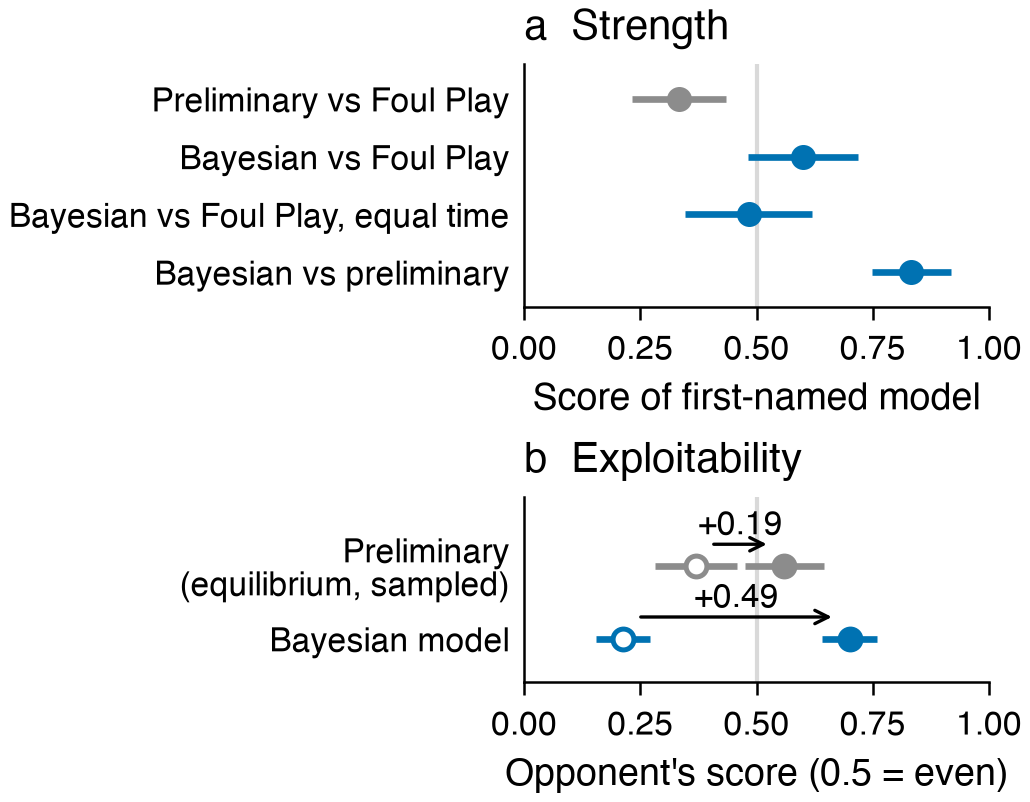
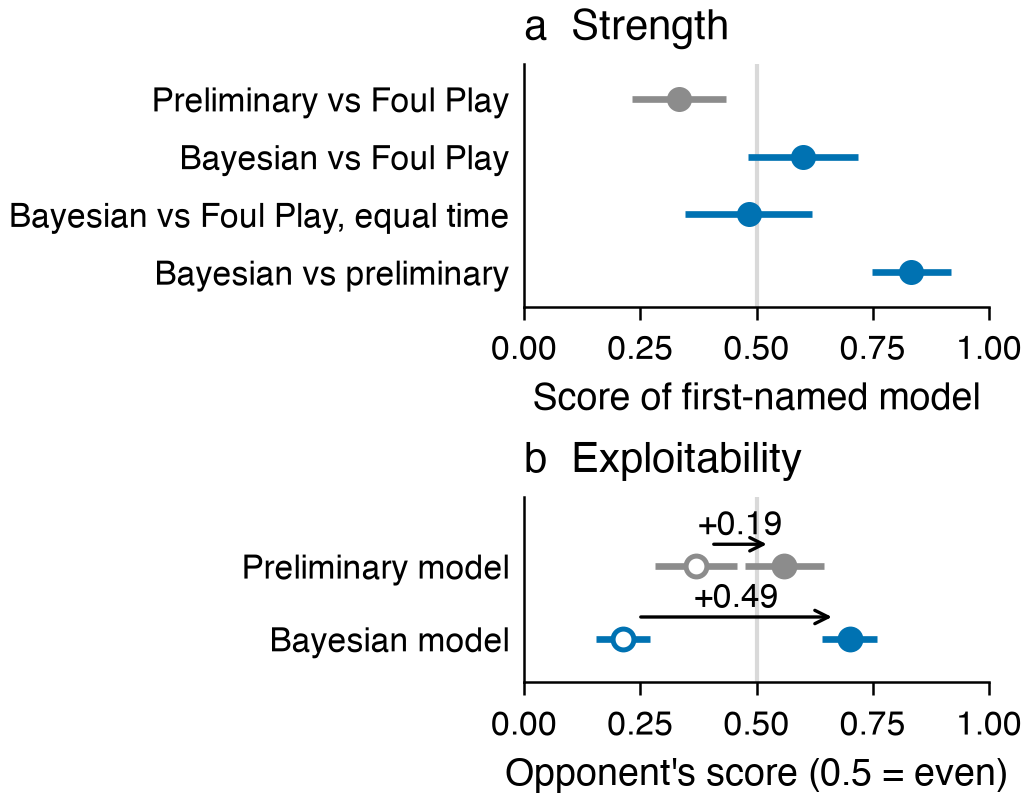
Paper Figure 2b: preliminary vs Bayesian exploitability, labels matched to the deck

Changed region(s): [[0.1553, 0.6546, 0.4971, 0.7481]]

diff --git a/report/figures/make_models_figure.py b/report/figures/make_models_figure.py
@@ -30,7 +30,7 @@ STRENGTH = [  # label, score, lo, hi, colour
     ("Bayesian vs preliminary", 0.833, 0.748, 0.919, BAYES),
 ]
 EXPLOIT = [  # label, (blind score, lo, hi), (knowing score, lo, hi), gain label, colour
-    ("Preliminary\n(equilibrium, sampled)", (0.370, 0.282, 0.458), (0.560, 0.475, 0.645), "+0.19", GREY),
+    ("Preliminary model", (0.370, 0.282, 0.458), (0.560, 0.475, 0.645), "+0.19", GREY),
     ("Bayesian model", (0.213, 0.155, 0.270), (0.700, 0.641, 0.759), "+0.49", BAYES),
 ]
 
